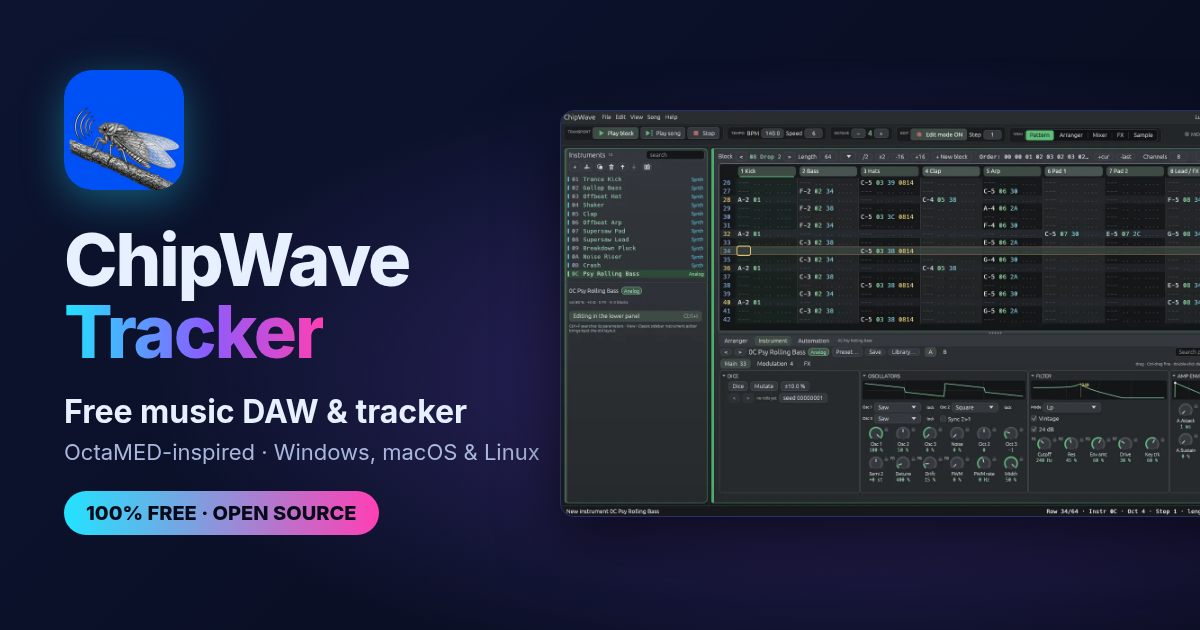
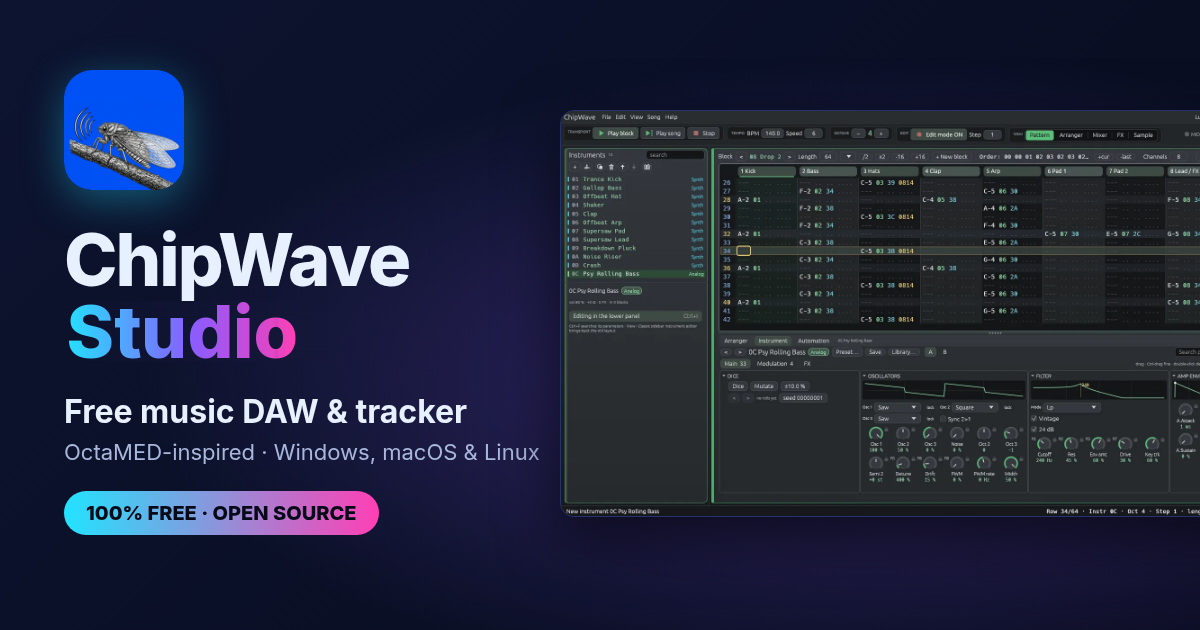
Site: ChipWave Studio (formerly ChipWave Tracker), new address postmanpat-303.github.io/ChipWaveStudio (canonical, og, sitemap, robots, JSON-LD 0.2.4.0), og image renamed, rename FAQ

Changed region(s): [[0.0308, 0.4825, 0.2775, 0.573]]

diff --git a/index.html b/index.html
@@ -3,10 +3,10 @@
 <head>
 <meta charset="utf-8">
 <meta name="viewport" content="width=device-width,initial-scale=1">
-<title>ChipWave Tracker – Free Music DAW &amp; Tracker for Windows, macOS and Linux</title>
-<meta name="description" content="ChipWave Tracker is a free, open-source music DAW and OctaMED-inspired tracker for Windows, macOS and Linux: synth, generators, Voice instrument, CLAP plugins, arranger, automation, limiter and WAV/MP3 export.">
-<meta name="keywords" content="ChipWave Tracker, free music DAW, free DAW, free DAW for Windows, free DAW for Mac, music tracker, OctaMED, Amiga tracker, chiptune, synthesizer, FM synth, drum synth, sfxr, CLAP plugins, MIDI, music production, Windows, macOS, Linux, open source">
-<link rel="canonical" href="https://postmanpat-303.github.io/ChipWaveTracker/">
+<title>ChipWave Studio – Free Music DAW &amp; Tracker for Windows, macOS and Linux</title>
+<meta name="description" content="ChipWave Studio is a free, open-source music DAW and OctaMED-inspired tracker for Windows, macOS and Linux: synth, generators, Voice instrument, CLAP plugins, arranger, automation, limiter and WAV/MP3 export.">
+<meta name="keywords" content="ChipWave Studio, ChipWave Tracker, free music DAW, free DAW, free DAW for Windows, free DAW for Mac, music tracker, OctaMED, Amiga tracker, chiptune, synthesizer, FM synth, drum synth, sfxr, CLAP plugins, MIDI, music production, Windows, macOS, Linux, open source">
+<link rel="canonical" href="https://postmanpat-303.github.io/ChipWaveStudio/">
 <meta name="theme-color" content="#070b1c">
 <meta name="color-scheme" content="dark">
 <link rel="icon" type="image/png" sizes="32x32" href="assets/favicon-32.png">
@@ -14,21 +14,22 @@
 <link rel="preload" as="image" href="assets/shots/instrument-editor.webp" imagesrcset="assets/shots/instrument-editor-800.webp 800w, assets/shots/instrument-editor.webp 1600w" imagesizes="(max-width:1120px) 100vw, 1072px">
 <meta property="og:type" content="website">
 <meta property="og:site_name" content="The Wave Family">
-<meta property="og:title" content="ChipWave Tracker – Free Music DAW &amp; Tracker for Windows, macOS and Linux">
+<meta property="og:title" content="ChipWave Studio – Free Music DAW &amp; Tracker for Windows, macOS and Linux">
 <meta property="og:description" content="A free, open-source music DAW with a tracker heart, inspired by OctaMED and the Amiga. Synths, generators, a Voice instrument, CLAP plugins, arranger, automation and WAV/MP3 export.">
-<meta property="og:url" content="https://postmanpat-303.github.io/ChipWaveTracker/">
-<meta property="og:image" content="https://postmanpat-303.github.io/ChipWaveTracker/assets/og.png">
+<meta property="og:url" content="https://postmanpat-303.github.io/ChipWaveStudio/">
+<meta property="og:image" content="https://postmanpat-303.github.io/ChipWaveStudio/assets/og.png">
 <meta property="og:image:width" content="1200">
 <meta property="og:image:height" content="630">
-<meta property="og:image:alt" content="ChipWave Tracker: free music DAW and tracker for Windows, macOS and Linux">
+<meta property="og:image:alt" content="ChipWave Studio: free music DAW and tracker for Windows, macOS and Linux">
 <meta name="twitter:card" content="summary_large_image">
-<meta name="twitter:title" content="ChipWave Tracker – Free Music DAW &amp; Tracker for Windows, macOS and Linux">
+<meta name="twitter:title" content="ChipWave Studio – Free Music DAW &amp; Tracker for Windows, macOS and Linux">
 <meta name="twitter:description" content="A free, open-source music DAW with a tracker heart, inspired by OctaMED and the Amiga. Synths, generators, a Voice instrument, CLAP plugins, arranger, automation and WAV/MP3 export.">
-<meta name="twitter:image" content="https://postmanpat-303.github.io/ChipWaveTracker/assets/og.png">
+<meta name="twitter:image" content="https://postmanpat-303.github.io/ChipWaveStudio/assets/og.png">
 <script type="application/ld+json">{"@context":"https://schema.org","@graph":[
-{"@type":"SoftwareApplication","name":"ChipWave Tracker","alternateName":"ChipWave","description":"ChipWave Tracker is a free, open-source music DAW and OctaMED-inspired tracker for Windows, macOS and Linux, with a built-in synth, macro-knob generators, a synthetic Voice instrument, CLAP plugin hosting, a visual arranger with automation, a mixer with sidechain ducking, a true-peak limiter with LUFS metering, MIDI input and WAV/MP3 export.","applicationCategory":"MultimediaApplication","applicationSubCategory":"Music tracker / DAW","operatingSystem":"Windows, macOS, Linux","softwareVersion":"0.2.3.19","url":"https://postmanpat-303.github.io/ChipWaveTracker/","downloadUrl":"https://github.com/postmanpat-303/ChipWaveTracker/releases/latest","installUrl":"https://github.com/postmanpat-303/ChipWaveTracker/releases/latest/download/ChipWave-setup-x64.exe","image":"https://postmanpat-303.github.io/ChipWaveTracker/assets/og.png","screenshot":["https://postmanpat-303.github.io/ChipWaveTracker/assets/shots/instrument-editor.webp","https://postmanpat-303.github.io/ChipWaveTracker/assets/shots/full-height-pattern.webp","https://postmanpat-303.github.io/ChipWaveTracker/assets/shots/arranger-view.webp","https://postmanpat-303.github.io/ChipWaveTracker/assets/shots/mixer-limiter.webp"],"featureList":["OctaMED-style pattern editor with up to 32 channels","Visual arranger with automation lanes","Built-in synth with SVF and Moog ladder filters","Generators: Drum Synth, Analog, FM-4, Noise and Chip FX (sfxr)","Synthetic Voice instrument with words, Throat mode and Voice Transform","CLAP plugin instrument hosting","Mixer with sidechain ducking, true-peak limiter and LUFS meter","MIDI keyboard input and MIDI learn","WAV and MP3 export","Dark Circuit and Amiga Workbench themes"],"license":"https://www.gnu.org/licenses/gpl-3.0.html","isAccessibleForFree":true,"codeRepository":"https://github.com/postmanpat-303/ChipWaveTracker","programmingLanguage":"Rust","offers":{"@type":"Offer","price":"0","priceCurrency":"EUR"},"author":{"@type":"Person","name":"Del (postmanpat)","url":"https://github.com/postmanpat-303"}},
+{"@type":"SoftwareApplication","name":"ChipWave Studio","alternateName":["ChipWave Tracker","ChipWave"],"description":"ChipWave Studio is a free, open-source music DAW and OctaMED-inspired tracker for Windows, macOS and Linux, with a built-in synth, macro-knob generators, a synthetic Voice instrument, CLAP plugin hosting, a visual arranger with automation, a mixer with sidechain ducking, a true-peak limiter with LUFS metering, MIDI input and WAV/MP3 export.","applicationCategory":"MultimediaApplication","applicationSubCategory":"Music tracker / DAW","operatingSystem":"Windows, macOS, Linux","softwareVersion":"0.2.4.0","url":"https://postmanpat-303.github.io/ChipWaveStudio/","downloadUrl":"https://github.com/postmanpat-303/ChipWaveStudio/releases/latest","installUrl":"https://github.com/postmanpat-303/ChipWaveStudio/releases/latest/download/ChipWave-setup-x64.exe","image":"https://postmanpat-303.github.io/ChipWaveStudio/assets/og.png","screenshot":["https://postmanpat-303.github.io/ChipWaveStudio/assets/shots/instrument-editor.webp","https://postmanpat-303.github.io/ChipWaveStudio/assets/shots/full-height-pattern.webp","https://postmanpat-303.github.io/ChipWaveStudio/assets/shots/arranger-view.webp","https://postmanpat-303.github.io/ChipWaveStudio/assets/shots/mixer-limiter.webp"],"featureList":["OctaMED-style pattern editor with up to 32 channels","Visual arranger with automation lanes","Built-in synth with SVF and Moog ladder filters","Generators: Drum Synth, Analog, FM-4, Noise and Chip FX (sfxr)","Synthetic Voice instrument with words, Throat mode and Voice Transform","CLAP plugin instrument hosting","Mixer with sidechain ducking, true-peak limiter and LUFS meter","MIDI keyboard input and MIDI learn","WAV and MP3 export","Dark Circuit and Amiga Workbench themes"],"license":"https://www.gnu.org/licenses/gpl-3.0.html","isAccessibleForFree":true,"codeRepository":"https://github.com/postmanpat-303/ChipWaveStudio","programmingLanguage":"Rust","offers":{"@type":"Offer","price":"0","priceCurrency":"EUR"},"author":{"@type":"Person","name":"Del (postmanpat)","url":"https://github.com/postmanpat-303"}},
 {"@type":"FAQPage","mainEntity":[
-{"@type":"Question","name":"Is ChipWave Tracker really free?","acceptedAnswer":{"@type":"Answer","text":"Yes. ChipWave Tracker is a free music DAW and tracker, released as free software under the GNU GPL v3. There is no account, trial or paid tier."}},
+{"@type":"Question","name":"Is ChipWave Studio really free?","acceptedAnswer":{"@type":"Answer","text":"Yes. ChipWave Studio is a free music DAW and tracker, released as free software under the GNU GPL v3. There is no account, trial or paid tier."}},
+{"@type":"Question","name":"Is ChipWave Studio the same app as ChipWave Tracker?","acceptedAnswer":{"@type":"Answer","text":"Yes. ChipWave Tracker was renamed ChipWave Studio in version 0.2.4.0, to tell it apart from an unrelated iOS app called ChipWave. Settings, songs and instruments carry over and old GitHub links redirect."}},
 {"@type":"Question","name":"Which systems does it run on?","acceptedAnswer":{"@type":"Answer","text":"64-bit Windows (installer or portable zip), macOS 11 or later as a universal app for Apple Silicon and Intel, and Linux by building from source with Rust."}},
 {"@type":"Question","name":"Can I use plugins?","acceptedAnswer":{"@type":"Answer","text":"Yes, CLAP instrument plugins such as Surge XT, with a crash-guarded scanner, parameter list, macros, automation and state saved in the song. VST3 hosting and plugin effects are planned but not in the app yet."}},
 {"@type":"Question","name":"Can it open MOD or MED files?","acceptedAnswer":{"@type":"Answer","text":"Not yet. MED and MOD loading are on the roadmap. ChipWave saves its own .cwt songs, a ZIP of TOML and WAV files you can inspect."}}
@@ -151,23 +152,24 @@ footer .wrap{display:flex;flex-wrap:wrap;gap:16px;justify-content:space-between;
 <a class="skip" href="#main">Skip to content</a>
 <nav aria-label="Main"><div class="wrap">
   <a class="brand" href="#top"><img src="assets/icon-256.png" alt="" width="34" height="34"><b>Chip<span>Wave</span></b></a>
-  <div class="links"><a href="#features">Features</a><a href="#editor">Instrument editor</a><a href="#shots">Screenshots</a><a href="#amiga">Amiga</a><a href="#faq">FAQ</a><a class="keep" href="#download">Download</a><a class="keep" href="https://github.com/postmanpat-303/ChipWaveTracker">GitHub ↗</a></div>
+  <div class="links"><a href="#features">Features</a><a href="#editor">Instrument editor</a><a href="#shots">Screenshots</a><a href="#amiga">Amiga</a><a href="#faq">FAQ</a><a class="keep" href="#download">Download</a><a class="keep" href="https://github.com/postmanpat-303/ChipWaveStudio">GitHub ↗</a></div>
 </div></nav>
 
 <header class="hero" id="top">
   <div class="wrap">
-    <img class="hero-logo" src="assets/icon-256.png" alt="ChipWave Tracker logo: an engraved cicada on a branch sending out sound waves" width="128" height="128">
+    <img class="hero-logo" src="assets/icon-256.png" alt="ChipWave Studio logo: an engraved cicada on a branch sending out sound waves" width="128" height="128">
     <span class="eyebrow">100% FREE · OPEN SOURCE · GPL-3</span>
-    <h1><small>ChipWave Tracker</small>A <span class="g">free music DAW</span><br>with a tracker heart.</h1>
+    <h1><small>ChipWave Studio</small>A <span class="g">free music DAW</span><br>with a tracker heart.</h1>
     <p class="lead">The fast, keyboard-driven pattern workflow of OctaMED and the Amiga, plus a built-in synth, macro-knob generators, a synthetic Voice instrument, CLAP plugins, a visual arranger with automation, a mixer with a true-peak limiter, and WAV/MP3 export. For Windows, macOS and Linux.</p>
     <div class="cta">
-      <a class="btn primary" id="dl-win" href="https://github.com/postmanpat-303/ChipWaveTracker/releases/latest/download/ChipWave-setup-x64.exe">⬇ Download for Windows</a>
-      <a class="btn" id="dl-mac" href="https://github.com/postmanpat-303/ChipWaveTracker/releases/latest/download/ChipWave-macos-universal.dmg">⬇ Download for macOS</a>
-      <a class="btn" href="https://github.com/postmanpat-303/ChipWaveTracker">★ View on GitHub</a>
+      <a class="btn primary" id="dl-win" href="https://github.com/postmanpat-303/ChipWaveStudio/releases/latest/download/ChipWave-setup-x64.exe">⬇ Download for Windows</a>
+      <a class="btn" id="dl-mac" href="https://github.com/postmanpat-303/ChipWaveStudio/releases/latest/download/ChipWave-macos-universal.dmg">⬇ Download for macOS</a>
+      <a class="btn" href="https://github.com/postmanpat-303/ChipWaveStudio">★ View on GitHub</a>
     </div>
-    <p class="meta">Latest release <b data-ver>v0.2.3.19</b> · Windows 64-bit · macOS 11+ (Apple Silicon &amp; Intel) · Linux from source</p>
+    <p class="meta">Formerly <b>ChipWave Tracker</b>: same free app, new name (renamed in 0.2.4.0 to tell it apart from an unrelated iOS app called ChipWave).</p>
+    <p class="meta">Latest release <b data-ver>v0.2.4.0</b> · Windows 64-bit · macOS 11+ (Apple Silicon &amp; Intel) · Linux from source</p>
     <figure class="hero-shot">
-      <img src="assets/shots/instrument-editor.webp" srcset="assets/shots/instrument-editor-800.webp 800w, assets/shots/instrument-editor.webp 1600w" sizes="(max-width:1120px) 100vw, 1072px" width="1600" height="900" alt="ChipWave Tracker main window playing the Velvet Mirrorball disco demo: the pattern editor on top, the compact instrument list on the left and the Octave Bass (Analog generator) open in the lower-panel instrument editor with Dice, Oscillators, Filter, Amp envelope and Voice cards" fetchpriority="high">
+      <img src="assets/shots/instrument-editor.webp" srcset="assets/shots/instrument-editor-800.webp 800w, assets/shots/instrument-editor.webp 1600w" sizes="(max-width:1120px) 100vw, 1072px" width="1600" height="900" alt="ChipWave Studio main window playing the Velvet Mirrorball disco demo: the pattern editor on top, the compact instrument list on the left and the Octave Bass (Analog generator) open in the lower-panel instrument editor with Dice, Oscillators, Filter, Amp envelope and Voice cards" fetchpriority="high">
     </figure>
   </div>
   <div class="scan" aria-hidden="true"></div>
@@ -177,7 +179,7 @@ footer .wrap{display:flex;flex-wrap:wrap;gap:16px;justify-content:space-between;
 <section id="video"><div class="wrap">
   <h2>Watch the promo</h2>
   <p class="sub">A cicada finds its rhythm, with a little nod to the Amiga days.</p>
-  <a class="video" href="https://youtu.be/6VWhFZxexIc" data-id="6VWhFZxexIc" rel="noopener" aria-label="Play the ChipWave Tracker promo video">
+  <a class="video" href="https://youtu.be/6VWhFZxexIc" data-id="6VWhFZxexIc" rel="noopener" aria-label="Play the ChipWave Studio promo video">
     <picture><source srcset="assets/promo-thumb.webp" type="image/webp"><img src="assets/promo-thumb.jpg" alt="" width="960" height="540" loading="lazy" decoding="async"></picture>
     <span class="play" aria-hidden="true"><i></i></span>
   </a>
@@ -222,7 +224,7 @@ footer .wrap{display:flex;flex-wrap:wrap;gap:16px;justify-content:space-between;
 
 <section id="shots" class="shots alt"><div class="wrap">
   <h2>See it in action</h2>
-  <p class="sub">Real screenshots of ChipWave Tracker, no mock-ups, playing the built-in demo songs.</p>
+  <p class="sub">Real screenshots of ChipWave Studio, no mock-ups, playing the built-in demo songs.</p>
   <figure class="shot">
     <a href="assets/shots/full-height-pattern.webp"><img src="assets/shots/full-height-pattern.webp" width="1280" height="720" loading="lazy" decoding="async" alt="Full-height pattern view: the lower panel is hidden and the pattern editor fills the window with the disco demo’s notes and effect commands"></a>
     <figcaption><b>Full-height pattern.</b> Press F11 and the tracker gets the whole window: notes, instruments, volumes and effect commands at a glance.</figcaption>
@@ -258,34 +260,35 @@ footer .wrap{display:flex;flex-wrap:wrap;gap:16px;justify-content:space-between;
       <li><b>Swap songs with PC ChipWave</b> through ProTracker <code>.mod</code> files.</li>
       <li><b>Workbench look</b>, shipped as a bootable <code>.adf</code> and an <code>.lha</code>, ready for WinUAE or real hardware.</li>
     </ul>
-    <p class="cap" style="text-align:left"><a href="https://github.com/postmanpat-303/ChipWaveTracker/blob/main/docs/AMIGA_LITE_PLAN.md">Read the plan →</a></p>
+    <p class="cap" style="text-align:left"><a href="https://github.com/postmanpat-303/ChipWaveStudio/blob/main/docs/AMIGA_LITE_PLAN.md">Read the plan →</a></p>
   </div>
 </div></section>
 
 <section id="download"><div class="wrap">
-  <h2>Download ChipWave Tracker free</h2>
-  <p class="sub">Latest release <b data-ver>v0.2.3.19</b>. These links always fetch the newest version. Already installed? <b>Help &gt; Check for updates…</b> offers it. <a href="https://github.com/postmanpat-303/ChipWaveTracker/releases/latest">All files and SHA256 checksums</a>.</p>
+  <h2>Download ChipWave Studio free</h2>
+  <p class="sub">Latest release <b data-ver>v0.2.4.0</b>. These links always fetch the newest version. Already installed? <b>Help &gt; Check for updates…</b> offers it. <a href="https://github.com/postmanpat-303/ChipWaveStudio/releases/latest">All files and SHA256 checksums</a>.</p>
   <div class="dlbox">
     <div class="card"><div class="ico">🪟</div><h3>Windows</h3><p>64-bit installer, or a portable zip. Opens with a demo song: press Space to play.</p>
-      <a class="btn primary" href="https://github.com/postmanpat-303/ChipWaveTracker/releases/latest/download/ChipWave-setup-x64.exe">Installer (.exe)</a>
-      <a class="btn" href="https://github.com/postmanpat-303/ChipWaveTracker/releases/latest/download/ChipWave-windows-x64.zip">Portable (.zip)</a></div>
+      <a class="btn primary" href="https://github.com/postmanpat-303/ChipWaveStudio/releases/latest/download/ChipWave-setup-x64.exe">Installer (.exe)</a>
+      <a class="btn" href="https://github.com/postmanpat-303/ChipWaveStudio/releases/latest/download/ChipWave-windows-x64.zip">Portable (.zip)</a></div>
     <div class="card"><div class="ico">💻</div><h3>macOS</h3><p>Universal app for Apple Silicon and Intel, macOS 11 or later.</p>
-      <a class="btn primary" href="https://github.com/postmanpat-303/ChipWaveTracker/releases/latest/download/ChipWave-macos-universal.dmg">Disk image (.dmg)</a>
-      <a class="btn" href="https://github.com/postmanpat-303/ChipWaveTracker/releases/latest/download/ChipWave-macos-universal.zip">App (.zip)</a></div>
+      <a class="btn primary" href="https://github.com/postmanpat-303/ChipWaveStudio/releases/latest/download/ChipWave-macos-universal.dmg">Disk image (.dmg)</a>
+      <a class="btn" href="https://github.com/postmanpat-303/ChipWaveStudio/releases/latest/download/ChipWave-macos-universal.zip">App (.zip)</a></div>
     <div class="card"><div class="ico">🐧</div><h3>Linux</h3><p>Build from source with Rust. On Debian/Ubuntu you also need <code>libasound2-dev</code>.</p>
-<pre>git clone https://github.com/postmanpat-303/ChipWaveTracker
-cd ChipWaveTracker
+<pre>git clone https://github.com/postmanpat-303/ChipWaveStudio
+cd ChipWaveStudio
 cargo run --release</pre></div>
   </div>
-  <p class="note">🛡 Not code-signed yet. On Windows, if SmartScreen appears, click <b>More info → Run anyway</b>. On a Mac, open it the first time with <b>Control-click → Open</b> (<a href="https://github.com/postmanpat-303/ChipWaveTracker/blob/main/docs/MACOS.md">details</a>).</p>
+  <p class="note">🛡 Not code-signed yet. On Windows, if SmartScreen appears, click <b>More info → Run anyway</b>. On a Mac, open it the first time with <b>Control-click → Open</b> (<a href="https://github.com/postmanpat-303/ChipWaveStudio/blob/main/docs/MACOS.md">details</a>).</p>
 </div></section>
 
 <section id="faq" class="alt"><div class="wrap">
   <h2>FAQ</h2>
-  <p class="sub">Quick answers. The <a href="https://github.com/postmanpat-303/ChipWaveTracker#documentation">documentation</a> has the rest.</p>
+  <p class="sub">Quick answers. The <a href="https://github.com/postmanpat-303/ChipWaveStudio#documentation">documentation</a> has the rest.</p>
   <div class="faq">
-    <details><summary>Is ChipWave Tracker really free?</summary><p>Yes. ChipWave Tracker is a free music DAW and tracker, released as free software under the GNU GPL v3. There's no account, trial or paid tier. If you enjoy it, a coffee helps keep it going.</p></details>
+    <details><summary>Is ChipWave Studio really free?</summary><p>Yes. ChipWave Studio is a free music DAW and tracker, released as free software under the GNU GPL v3. There's no account, trial or paid tier. If you enjoy it, a coffee helps keep it going.</p></details>
     <details><summary>Which systems does it run on?</summary><p>64-bit Windows (installer or portable zip), macOS 11 or later as a universal app for Apple Silicon and Intel, and Linux by building from source with Rust.</p></details>
+    <details><summary>Is this the same app as ChipWave Tracker?</summary><p>Yes. ChipWave Tracker was renamed ChipWave Studio in version 0.2.4.0, to tell it apart from an unrelated iOS app called ChipWave. Your settings, songs and instruments carry over, the installer updates an existing ChipWave Tracker install in place, and old GitHub links redirect here.</p></details>
     <details><summary>What is a tracker, and do I need to know one?</summary><p>A tracker writes music as a vertical grid of rows, one column per channel, played top to bottom, driven mostly from the keyboard. ChipWave keeps that fast workflow from OctaMED and adds DAW parts: an arranger, automation, a mixer and knob-based instrument editing. The demo songs are a good way in: open one from File &gt; Demo songs and press Space. <kbd>F12</kbd> shows every key.</p></details>
     <details><summary>Can I use plugins?</summary><p>Yes, CLAP instrument plugins such as Surge XT, with a crash-guarded scanner, parameter list, 8 macros, automation and state saved in the song. VST3 hosting and plugin effects are planned but not in the app yet.</p></details>
     <details><summary>Can it open MOD or MED files?</summary><p>Not yet. MED and MOD loading are on the roadmap. ChipWave saves its own <code>.cwt</code> songs, a ZIP of TOML and WAV files you can inspect, and exports WAV and MP3.</p></details>
@@ -297,7 +300,7 @@ cargo run --release</pre></div>
 
 <section id="credits"><div class="wrap">
   <h2>Built on open source</h2>
-  <p class="sub">ChipWave stands on the shoulders of open source and published research. Thank you to these projects and their creators. Licences are in <code>THIRD_PARTY_LICENSES.txt</code> with every download, and the full list is in the <a href="https://github.com/postmanpat-303/ChipWaveTracker#acknowledgements--credits">README</a>.</p>
+  <p class="sub">ChipWave stands on the shoulders of open source and published research. Thank you to these projects and their creators. Licences are in <code>THIRD_PARTY_LICENSES.txt</code> with every download, and the full list is in the <a href="https://github.com/postmanpat-303/ChipWaveStudio#acknowledgements--credits">README</a>.</p>
   <ul class="credits">
     <li><a href="https://github.com/emilk/egui">egui / eframe</a> <span>Emil Ernerfeldt and contributors · MIT/Apache-2.0 · the UI</span></li>
     <li><a href="https://github.com/RustAudio/cpal">cpal</a> <span>RustAudio · Apache-2.0 · audio output</span></li>
@@ -327,32 +330,32 @@ cargo run --release</pre></div>
 
 <section id="support" class="alt"><div class="wrap">
   <h2>Keep ChipWave going</h2>
-  <p class="sub">ChipWave Tracker is made by Del (postmanpat) and will stay free. To keep the software going I need coffee :)</p>
+  <p class="sub">ChipWave Studio is made by Del (postmanpat) and will stay free. To keep the software going I need coffee :)</p>
   <div class="support">
     <a class="btn coffee" href="https://buymeacoffee.com/postmanpat" rel="noopener">☕ Buy me a coffee</a>
     <a class="btn" href="https://paypal.me/derekh100" rel="noopener">PayPal</a>
     <a class="btn" href="https://www.youtube.com/@whatgoesaround1551" rel="noopener">▶ YouTube</a>
-    <a class="btn" href="https://github.com/postmanpat-303/ChipWaveTracker" rel="noopener">★ Star on GitHub</a>
-    <a class="btn" href="https://github.com/postmanpat-303/ChipWaveTracker/issues/new" rel="noopener">🐞 Report a bug</a>
+    <a class="btn" href="https://github.com/postmanpat-303/ChipWaveStudio" rel="noopener">★ Star on GitHub</a>
+    <a class="btn" href="https://github.com/postmanpat-303/ChipWaveStudio/issues/new" rel="noopener">🐞 Report a bug</a>
   </div>
-  <p class="family">Part of the Wave family: <a href="https://github.com/postmanpat-303/BigWaveRadio">BigWave Radio</a> · <a href="https://postmanpat-303.github.io/StreamWave/">StreamWave</a> · ChipWave Tracker</p>
+  <p class="family">Part of the Wave family: <a href="https://github.com/postmanpat-303/BigWaveRadio">BigWave Radio</a> · <a href="https://postmanpat-303.github.io/StreamWave/">StreamWave</a> · ChipWave Studio</p>
 </div></section>
 </main>
 
 <footer><div class="wrap">
-  <div>© 2026 Del (postmanpat) · ChipWave Tracker · GPL-3.0 licence</div>
-  <div><a href="https://github.com/postmanpat-303/ChipWaveTracker">GitHub</a> · <a href="https://github.com/postmanpat-303/ChipWaveTracker/releases">Releases</a> · <a href="https://github.com/postmanpat-303/ChipWaveTracker/blob/main/docs/CHANGELOG.md">Changelog</a> · <a href="https://github.com/postmanpat-303/ChipWaveTracker/issues">Issues</a></div>
+  <div>© 2026 Del (postmanpat) · ChipWave Studio · GPL-3.0 licence</div>
+  <div><a href="https://github.com/postmanpat-303/ChipWaveStudio">GitHub</a> · <a href="https://github.com/postmanpat-303/ChipWaveStudio/releases">Releases</a> · <a href="https://github.com/postmanpat-303/ChipWaveStudio/blob/main/docs/CHANGELOG.md">Changelog</a> · <a href="https://github.com/postmanpat-303/ChipWaveStudio/issues">Issues</a></div>
 </div></footer>
 
 <script>
 // Lite YouTube embed: load the player only when asked.
 document.querySelectorAll('.video[data-id]').forEach(v=>v.addEventListener('click',e=>{e.preventDefault();
   const f=document.createElement('iframe');f.src='https://www.youtube-nocookie.com/embed/'+v.dataset.id+'?autoplay=1&rel=0';
-  f.title='ChipWave Tracker promo video';f.allow='autoplay; encrypted-media; picture-in-picture';f.allowFullscreen=true;v.replaceChildren(f);f.focus()},{once:true}));
+  f.title='ChipWave Studio promo video';f.allow='autoplay; encrypted-media; picture-in-picture';f.allowFullscreen=true;v.replaceChildren(f);f.focus()},{once:true}));
 // Mac visitors: make the macOS button the primary one.
 if(/Mac/.test(navigator.platform||navigator.userAgent)){const w=document.getElementById('dl-win'),m=document.getElementById('dl-mac');w.classList.remove('primary');m.classList.add('primary');m.parentNode.insertBefore(m,w)}
 // Show the newest release tag (the static text is the fallback).
-fetch('https://api.github.com/repos/postmanpat-303/ChipWaveTracker/releases/latest').then(r=>r.ok?r.json():null).then(j=>{if(j&&j.tag_name)document.querySelectorAll('[data-ver]').forEach(e=>e.textContent=j.tag_name)}).catch(()=>{});
+fetch('https://api.github.com/repos/postmanpat-303/ChipWaveStudio/releases/latest').then(r=>r.ok?r.json():null).then(j=>{if(j&&j.tag_name)document.querySelectorAll('[data-ver]').forEach(e=>e.textContent=j.tag_name)}).catch(()=>{});
 // Screenshot carousel: buttons, dots and arrow keys on top of native scroll-snap.
 (()=>{const c=document.querySelector('.carousel');if(!c)return;
   const t=c.querySelector('.track'),s=[...t.children],d=c.querySelector('.dots'),p=c.querySelector('.prev'),n=c.querySelector('.next');
